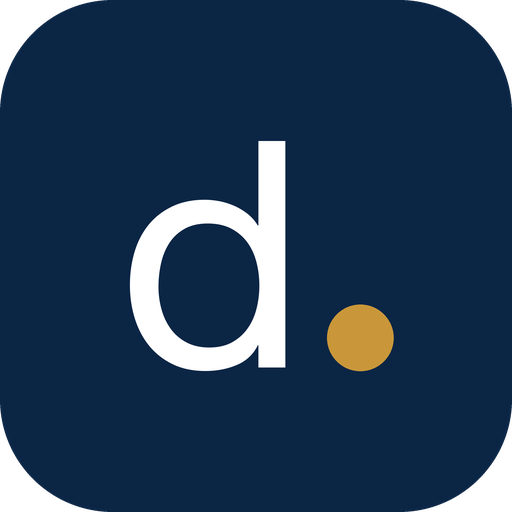
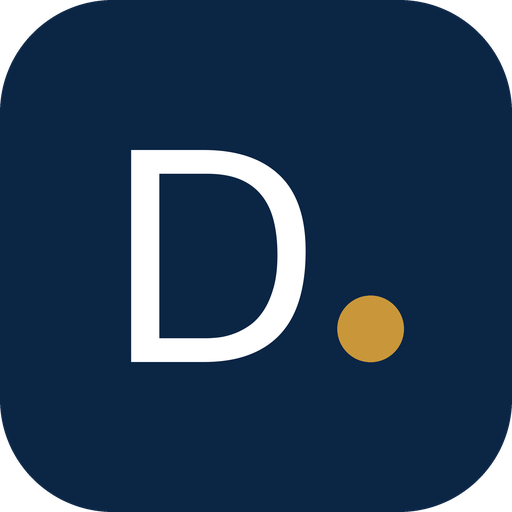
Nombre propio con mayúscula: Daniela Herrera
En el hero, el logo y el icono.

Changed region(s): [[0.25, 0.25, 0.625, 0.75], [0.625, 0.5938, 0.75, 0.75], [0.6875, 0.5625, 0.8125, 0.6875]]

diff --git a/src/app/page.tsx b/src/app/page.tsx
@@ -41,7 +41,7 @@ function Hero() {
             {advisor.name}, {advisor.role} en {advisor.dealer}
           </span>
           <span aria-hidden className="giant block whitespace-nowrap text-[27vw] lg:text-[clamp(10rem,20.5vw,20.5rem)]">
-            {"daniela".split("").map((l, i) => (
+            {"Daniela".split("").map((l, i) => (
               <span key={i} className="letter" style={{ animationDelay: `${i * 50}ms` }}>
                 {l}
               </span>

diff --git a/src/components/Navbar.tsx b/src/components/Navbar.tsx
@@ -14,8 +14,7 @@ const links = [
 export function Logo({ className = "" }: { className?: string }) {
   return (
     <span className={`text-2xl tracking-[-0.02em] ${className}`}>
-      <span className="font-700">daniela</span>
-      <span className="font-400">herrera</span>
+      <span className="font-700">Daniela</span> <span className="font-400">Herrera</span>
       <span className="dot-round" />
     </span>
   );
